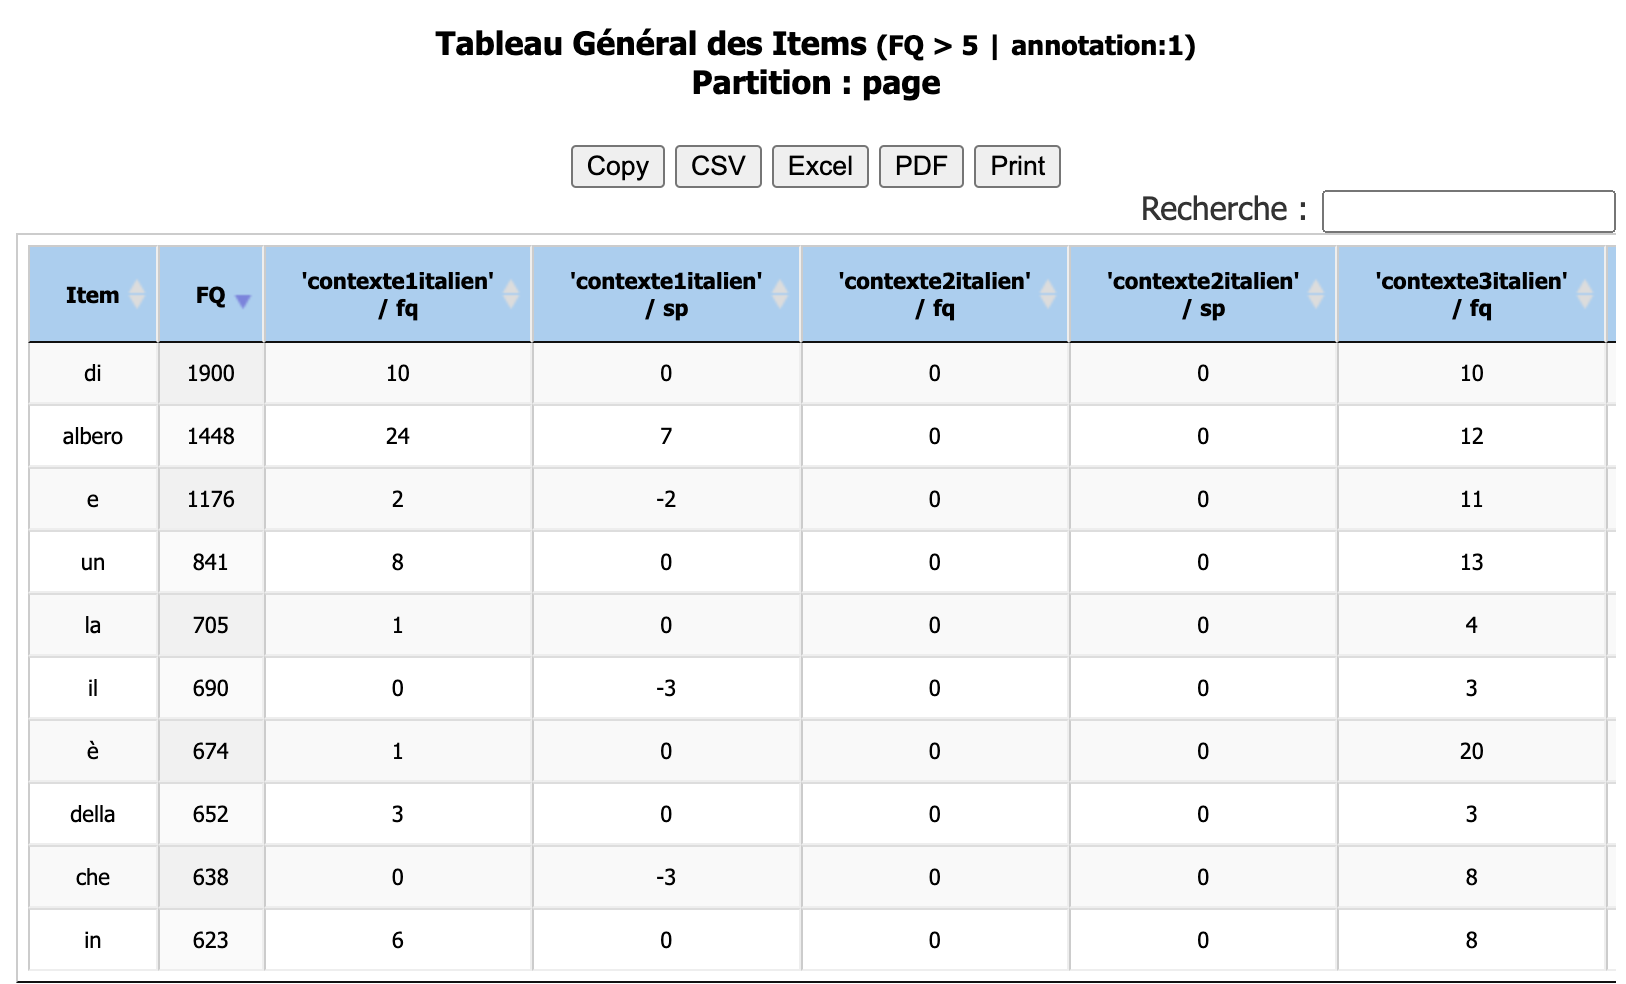
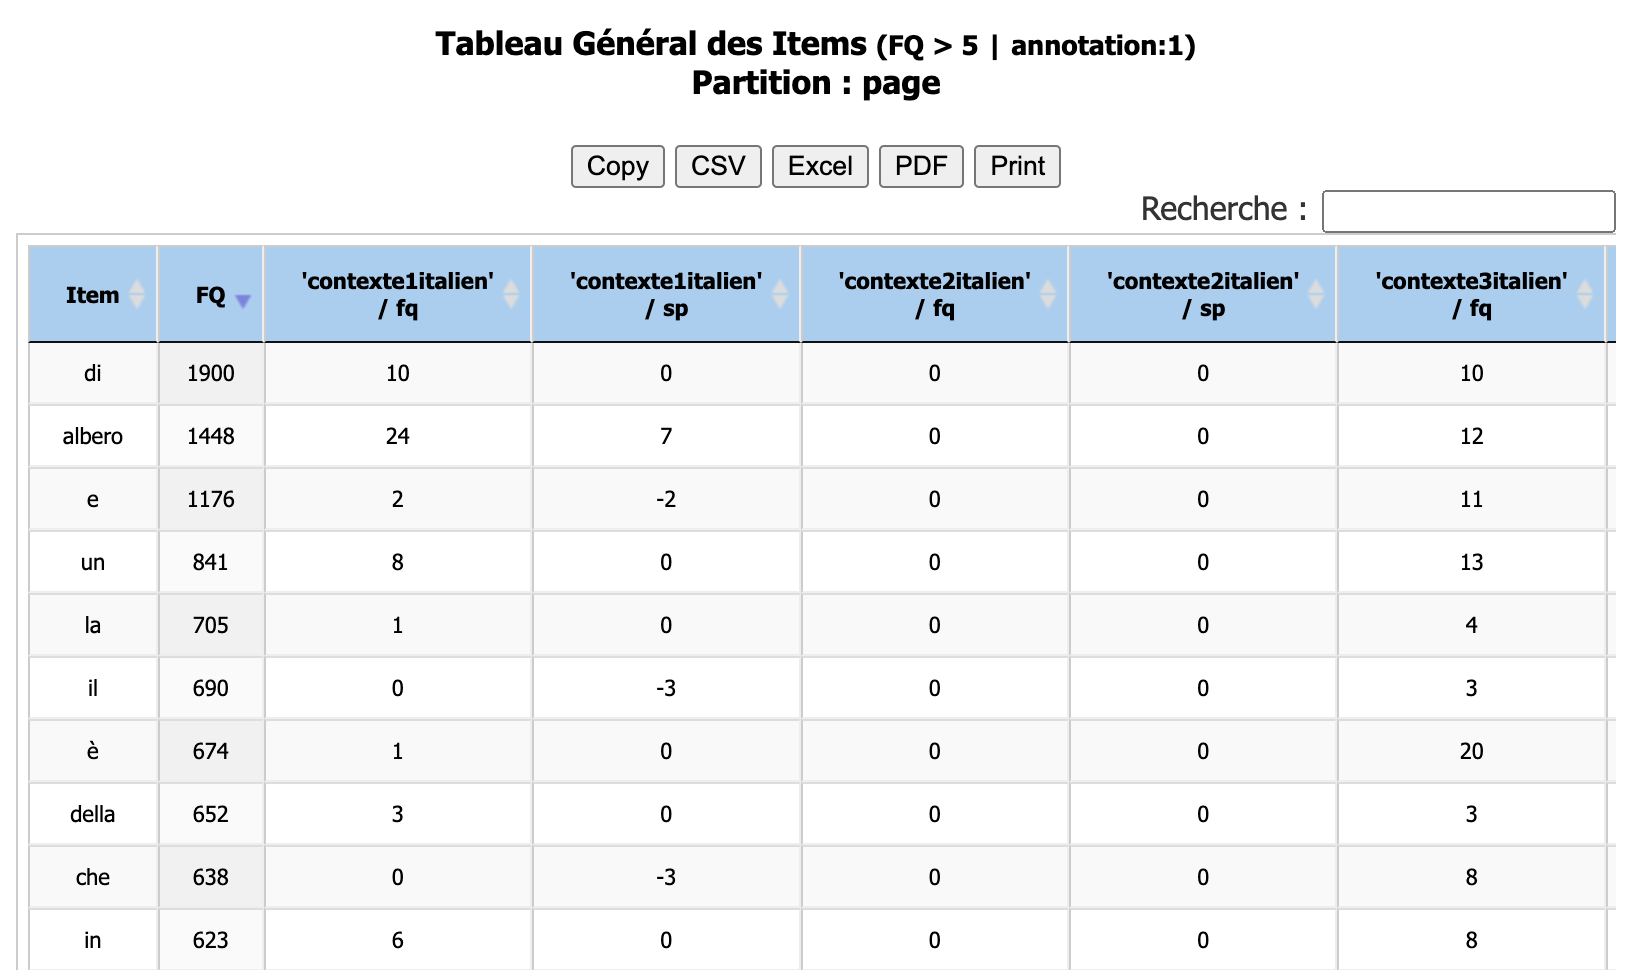
Lucile : analyses

diff --git a/analyses/italien/italien.html b/analyses/italien/italien.html
@@ -101,34 +101,32 @@
         </div>
         <div class="box">
           <p>
-            Nous avons calculé les spécificités pour chaque partie en fonction de la partition sous forme de page.
-            Les tableaux ci-dessous affichent pour chaque item sa fréquence totale dans le corpus, sa fréquence et son indice de spécificité dans chaque partie.
             Si nous enlevons des tableaux les items correspondant à des déterminants et des prépositions, nous avons sans grande surprise les deux déclinaisons du mot “arbre” en italien (albero - alberi).
-            Le premier mot porteur de sens par rapport au mot "albero" est “vita” (page 2) puis “Natale” (page 4). 
+            Le premier mot porteur de sens par rapport au mot "albero" est “vita” (page 2) puis “Natale” (page 3). 
           </p>
           <figure>
-            <img src="../../img/tableau_specificites.png" width="300" height="300">
+            <img src="../../img/it_speTotale_page1.png" width="500" height="500">
           </figure>   
           <figure>
-            <img src="../../img/tableau_specificites2.png" width="300" height="300">
-            <figcaption>Tableau de calcul de spécificité des mots du corpus - page 1 & 2.</figcaption>
+            <img src="../../img/it_speTotale_page2.png" width="500" height="500">
+          </figure>   
+          <figure>
+            <img src="../../img/it_speTotale_page3.png" width="500" height="500">
+            <figcaption>Tableau de calcul de spécificité des mots du corpus - page 1, 2 & 3.</figcaption>
           </figure>
         </br>
-          <p>Enfin, c'est parfois le mot <strong>"syntaxique"</strong> (синтаксического - /s'intaks'ičeskogo/ Gen.Sg.Masc, синтаксические - /s'intaks'ičeskije/ N.Plr, синтаксическое /s'intaks'ičeskoje/ N.Sg.Neu) qui est spécifique de certaines parties. 
-          </br></br>
+<p>Cette analyse permet de voir les mots du corpus qui ont une spécificité positive par page. Nous pouvons voir que sur les 10 premiers items, nous avons “Paulownia” et “paulownia”. Le “paulownia” est une espèce d’abre.
+</p></br></br>
           </p>   
           <figure>
-            <img src="../../img/tableau_specificites3.png" width="300" height="300">
-          </figure>
-          <figure>
-            <img src="../../img/tableau_specificites4.png" width="300" height="300">
-            <figcaption>Tableau de calcul de spécificité des mots du corpus - page 3 & 4.</figcaption>
+            <img src="../../img/it_motspe.png" width="500" height="500">
+            <figcaption>Tableau de calcul des mots spécifiques du corpus - page 1.</figcaption>
           </figure>                      
         </div>
         <div class="box">
           <p class="title is-5">Spécificité - Conclusion</p>
           <p>
-          Ces donées nous permettent de valider notre hypothèse sur la polysémie du mot "arbre" puisque ce dernier apparaît dans des textes au thèmes variés comme la botanique, les mathématiques ou la syntaxe.
+          Ces donées nous permettent de valider notre hypothèse sur la polysémie du mot "arbre" et le résultat est intéressant car cela permet de montrer à quel point notre corpus est précis au niveau des items en lien avec le mot “arbre”.
         </p>
         </div>
       </section>
@@ -138,7 +136,7 @@
 
       <section class="has-text-centered">
         <div class="box">
-          <p class="title is-">Cooccurences</p>
+          <p class="title is-">cooccurrences</p>
           <p>
             Nous avons calculé les mots cooccurrences du mot "arbre", c'est à dire les mots qui apparaissent le plus souvent à ses côtés.
               </br>  
@@ -160,24 +158,24 @@
   
           </p>
         <figure>
-          <img src="../../img/it_cooc_tableau1.png" width="300" height="300">
+          <img src="../../img/it_cooc_tableau1.png" width="500" height="500">
         </figure>
         <figure>
-          <img src="../../img/it_cooc_tableau2.png" width="300" height="300">
-          <figcaption>Tableau des cooccurrences du mot "дерево" dans le corpus</figcaption>
+          <img src="../../img/it_cooc_tableau2.png" width="500" height="500">
+          <figcaption>Tableau des cooccurrences du mot "albero" dans le corpus</figcaption>
         </figure>
       </br>
         <p>
           La vision des cooccurrents sous forme de graphe permet de rendre compte des résultats sous une autre forme.
         </p>
         <figure>
-          <img src="../../img/it_cooc_graph.png">
-          <figcaption>Graphe des cooccurrences du mot "дерево" dans le corpus</figcaption>
+          <img src="../../img/it_cooc_graph.png" width="800" height="800">
+          <figcaption>Graphe des cooccurrences du mot "albero" dans le corpus</figcaption>
         </figure>
         </div>
 
         <div class="box">
-          <p class="title is-5">Cooccurences - Conclusion</p>
+          <p class="title is-5">Cooccurrences - Conclusion</p>
           <p>
             
       </br>
@@ -194,14 +192,11 @@
       <div class="box">
         <p class="title is-4">Conclusion générale</p>
         <p>
-        Ces donées nous permettent de valider notre hypothèse sur la polysémie du mot "arbre" puisque ce dernier apparaît dans des textes au thèmes variés comme la botanique, les mathématiques ou la syntaxe.
-        Знаменитые
-        Si nous enlevons des tableaux les items correspondant à des détermin            1 - Ne pas pouvoir enlever les stopword nous donne des résultats non pertinents.
-
-        1 - Ne pas pouvoir enlever les stopword nous donne des résultats non pertinents.
-        Знаменитые
-        1 - On a des résultats inattendus comme arbre de pythagore alors qu'on a jamais cherché ce mot
-        2 - Ne pas pouvoir chercher par lemme nous oblige à chercher avec la forme du nominatif singulier          </p>
+        Ces donées nous permettent de valider notre hypothèse sur la polysémie du mot "arbre" puisque ce dernier apparaît dans des textes au thèmes variés comme la botanique, les mathématiques ou la syntaxe, ainsi que dans des expressions comme arbre de Noël ou arbre syntaxique.
+        </br></br>
+        Si nous souhaitions améliorer nos résultats, il serait intéressant d'inclure une liste des stopwords afin d'éliminer de notre analyse les items peu pertinents.
+      </br>
+      De plus, il serait intéressant de faire des requêtes par lemme afin d'inclure dans notre analyse toutes les flexions du mot recherché. Cela reste négligeable dans le cas de l'italien puisque notre mot n'a ici que 2 formes, mais peut être plus problématique dans des langues flexionelles ou agglutinantes.
       </p>
       </div>
       </section>
